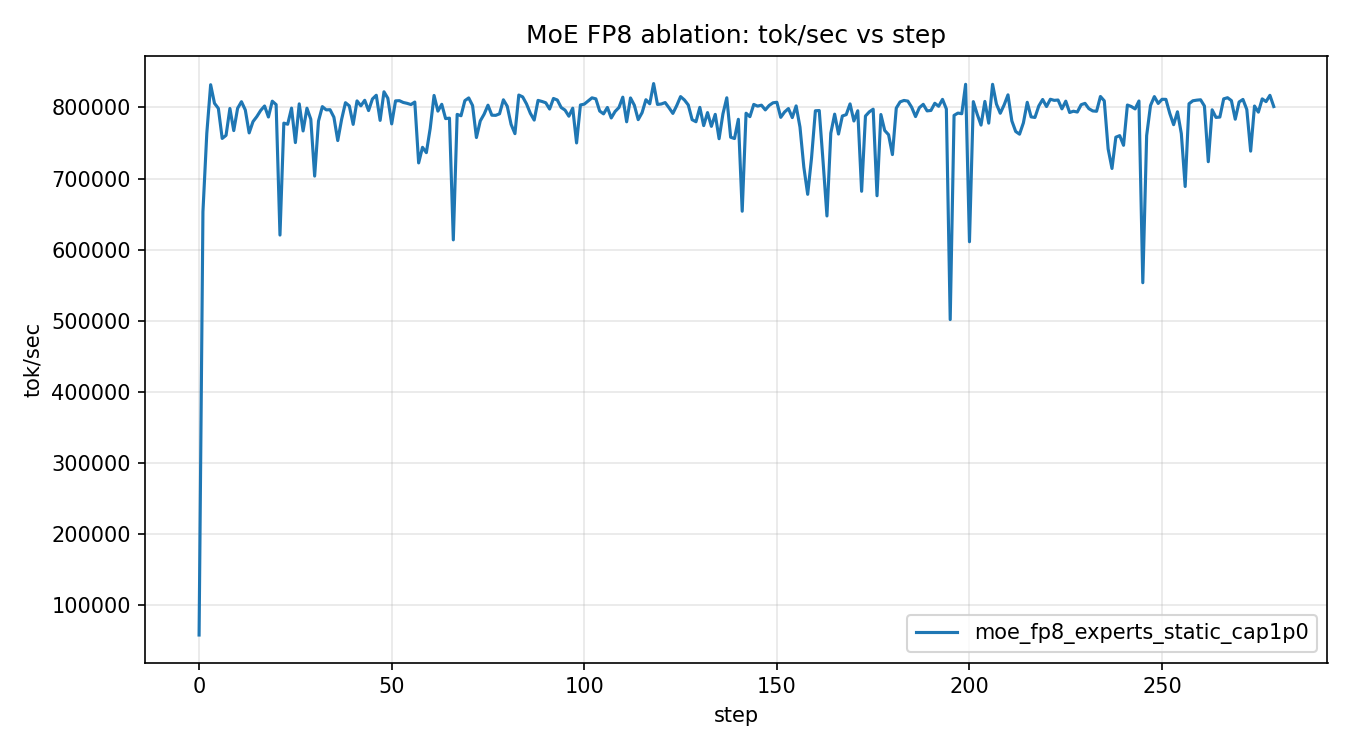
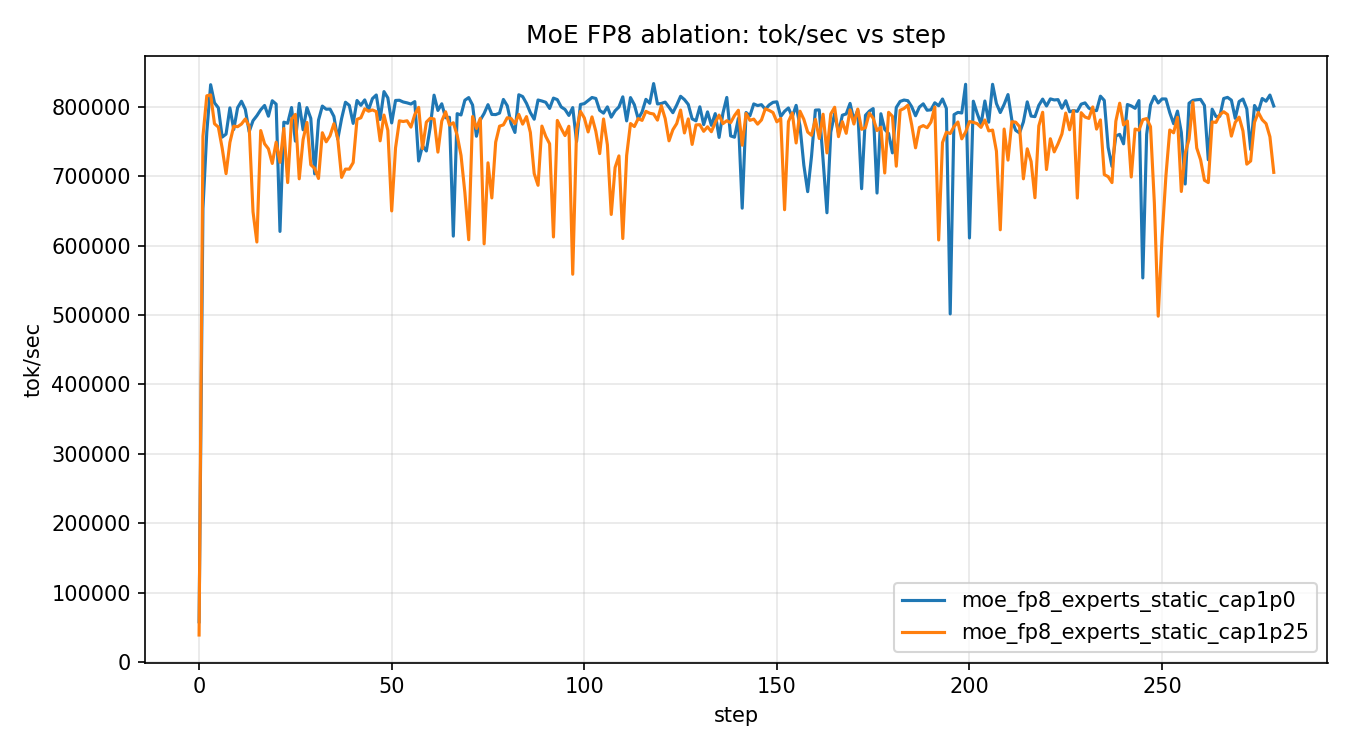
report: complete capacity resume run2 static cap1.25 and snapshot metrics
Background
- Continued from fresh resume experiment directory:
  /mnt/stepeval/yangxiaobo/cache/nanochat/tmp_exp/20260224_175412_moe-fp8-capacity-ablation-v1-resume
- Baseline leg (static cap1.0) was already completed; this milestone closes static cap1.25.

What changed
- Regenerated capacity ablation report artifacts after cap1.25 completion:
  - tmp_report/metrics/moe_fp8_ablation_steps.csv
  - tmp_report/metrics/moe_fp8_ablation_summary.csv
  - tmp_report/figures/moe_fp8_ablation_{loss,toksec,mfu,dt_ms}.png
  - tmp_report/20260224_180442_moe_fp8_capacity_ablation_progress.md
- Added run2 milestone snapshot:
  - tmp_report/20260224_1809_capacity_resume_run2_done.md

Validation / Commands
- Training command (run2): torchrun --standalone --nproc_per_node=8 -m scripts.base_train -- ... --compile-mode static --moe-capacity-factor 1.25
- Report refresh: python tmp_report/generate_moe_fp8_ablation_report.py --exp-dir <resume_exp_dir> --out-md tmp_report/20260224_180442_moe_fp8_capacity_ablation_progress.md

Observed results (tail50)
- moe_fp8_experts_static_cap1p0: tok/sec=785203.42, dt=670.31ms, mfu=9.5014, peak_mem=18983.58MiB, total=3.00m
- moe_fp8_experts_static_cap1p25: tok/sec=747298.44, dt=706.31ms, mfu=9.0426, peak_mem=19722.27MiB, total=3.13m

Limitations
- Remaining legs pending for full decision: dynamic cap1.0 and nocompile cap1.0.

diff --git a/tmp_report/20260224_180442_moe_fp8_capacity_ablation_progress.md b/tmp_report/20260224_180442_moe_fp8_capacity_ablation_progress.md
@@ -1,0 +1,25 @@
+# MoE FP8 Compile Ablation Progress
+
+Generated at: 2026-02-24 18:04:43
+
+Experiment dir: `/mnt/stepeval/yangxiaobo/cache/nanochat/tmp_exp/20260224_175412_moe-fp8-capacity-ablation-v1-resume`
+
+## Run Summary
+
+| run | status | steps_observed | last_step | last_loss | tail50_tok/sec | tail50_mfu | tail50_dt_ms | peak_mem_mib | total_time_min |
+| --- | --- | ---: | ---: | ---: | ---: | ---: | ---: | ---: | ---: |
+| moe_fp8_experts_static_cap1p0 | completed | 280 | 279 | 3.7242 | 785203 | 9.50 | 670.3 | 18983.58 | 3.00 |
+| moe_fp8_experts_static_cap1p25 | completed | 280 | 279 | 3.7126 | 747298 | 9.04 | 706.3 | 19722.27 | 3.13 |
+
+## Dynamic Compile Status
+
+- No dynamic compile runs found in this experiment directory.
+
+## Artifacts
+
+- `tmp_report/metrics/moe_fp8_ablation_steps.csv`
+- `tmp_report/metrics/moe_fp8_ablation_summary.csv`
+- `tmp_report/figures/moe_fp8_ablation_loss.png`
+- `tmp_report/figures/moe_fp8_ablation_toksec.png`
+- `tmp_report/figures/moe_fp8_ablation_mfu.png`
+- `tmp_report/figures/moe_fp8_ablation_dt_ms.png`

diff --git a/tmp_report/20260224_1809_capacity_resume_run2_done.md b/tmp_report/20260224_1809_capacity_resume_run2_done.md
@@ -1,0 +1,24 @@
+# Capacity Resume Progress (Run2 Complete)
+
+Generated at: 2026-02-24 18:09:00 +08:00
+
+- Experiment: `/mnt/stepeval/yangxiaobo/cache/nanochat/tmp_exp/20260224_175412_moe-fp8-capacity-ablation-v1-resume`
+- Completed legs:
+  - `moe_fp8_experts_static_cap1p0`
+  - `moe_fp8_experts_static_cap1p25`
+- Remaining legs:
+  - `moe_fp8_experts_dynamic_cap1p0`
+  - `moe_fp8_experts_nocompile_cap1p0`
+
+## Key metrics (tail50 window)
+
+| run | tail50 tok/sec | tail50 dt (ms) | tail50 mfu | peak mem (MiB) | total time (min) |
+| --- | ---: | ---: | ---: | ---: | ---: |
+| moe_fp8_experts_static_cap1p0 | 785,203.42 | 670.31 | 9.5014 | 18,983.58 | 3.00 |
+| moe_fp8_experts_static_cap1p25 | 747,298.44 | 706.31 | 9.0426 | 19,722.27 | 3.13 |
+
+## Notes
+
+- Under static compile, `cap1.25` is slower than `cap1.0` on both throughput and latency.
+- `cap1.25` also increases peak memory by ~739 MiB and total time by ~0.13 min.
+- Next step is to finish `dynamic + cap1.0` and `nocompile + cap1.0` for full four-leg comparison.
